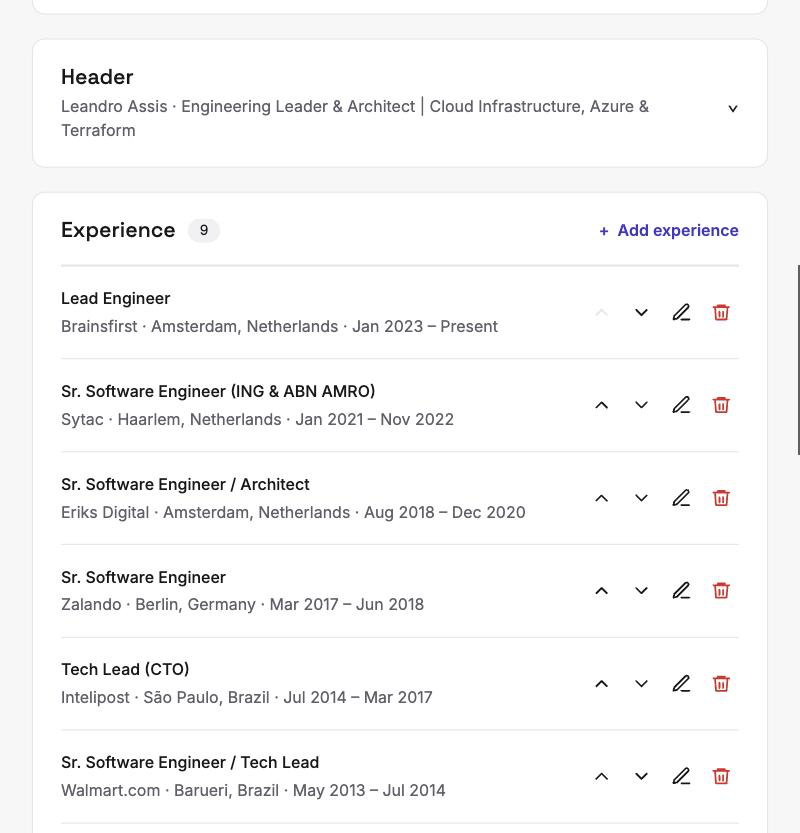
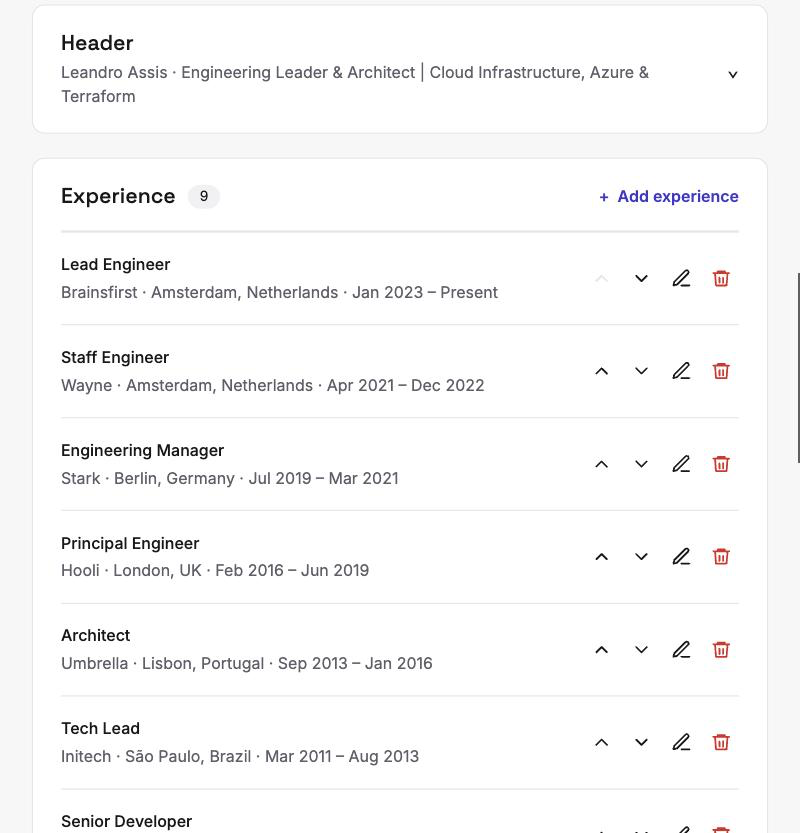
docs(specs): record screens round 2 for career-library

diff --git a/.specs/features/career-library/screens.md b/.specs/features/career-library/screens.md
@@ -1,16 +1,16 @@
 # Career library screens
 
 **Verifier**: independent sub-agent (author != verifier)
-**Round**: 1
+**Round**: 2
 
 Pictures taken by this verifier: app on port 3077 (3001 was occupied) against a fresh Neon Local branch with the walked sample data, browser window set to each capture's pixel size / 2 (764x859, 788x699, 770x818, 752x783). The browser pane returns 800 px wide screenshots (not 2x); no resizing was applied. Notes on `same` rows that apply to every picture: indigo accent and Space Grotesk headings versus green and Inter, flat page background versus the captures' white bordered column (existing admin shell). Not in the Differences table, so notes only (shade and type).
 
 | Screen | Compared with | Verdict | Finding |
 | --- | --- | --- | --- |
 | `captures/education-certifications-courses.running.png` | `captures/education-certifications-courses.png` | matches | 0 rows differ |
-| `captures/skills-publications-honours.running.png` | `captures/skills-publications-honours.png` | diverges | 1 row differs |
-| `captures/project-form.running.png` | `captures/project-form.png` | diverges | 2 rows differ |
-| `captures/header-experience.running.png` | `captures/header-experience.png` | diverges | 1 row differs |
+| `captures/skills-publications-honours.running.png` | `captures/skills-publications-honours.png` | matches | 0 rows differ (round 2) |
+| `captures/project-form.running.png` | `captures/project-form.png` | matches | 0 rows differ (round 2) |
+| `captures/header-experience.running.png` | `captures/header-experience.png` | matches | 0 rows differ (round 2) |
 
 ### `captures/education-certifications-courses.running.png`
 
@@ -33,7 +33,7 @@ Pictures taken by this verifier: app on port 3077 (3001 was occupied) against a 
 | Rows `Infrastructure`, `Backend`, `Databases`, `Caching`, title only, no meta line | same | |
 | Arrows: up disabled on Infrastructure, down disabled on Caching, others enabled; pencil and red trash on each | same | |
 | Publications card directly after Skills: title, no badge, `+ Add publication`, rule, `Nothing here yet.` | same | a Languages card (`Nothing here yet.`, `+ Add language`) sits between Skills and Publications by the confirmed section order (Assumptions, Section order, y); Publications is cut off at the bottom edge |
-| Honours card: title, no badge, `+ Add honour`, rule, `Nothing here yet.` | differs | not in the picture: pushed below the window by the Languages card (Honours is 2 cards down; the capture draws it in this window) |
+| Honours card: title, no badge, `+ Add honour`, rule, `Nothing here yet.` | same | round 2: below the window, as the confirmed difference (section order) lists |
 
 ### `captures/project-form.running.png`
 
@@ -45,16 +45,16 @@ Pictures taken by this verifier: app on port 3077 (3001 was occupied) against a 
 | `Client or organisation` label and input | same | |
 | `Start year` input and `Start month` select (placeholder `Month`) on one row, half width each | same | select caret is a chevron, capture a solid triangle (note) |
 | `End year` input and `End month` select (placeholder `Month`) on one row | same | |
-| `Ongoing` checkbox drawn as a circle, grey label | differs | square checkbox, dark label |
+| `Ongoing` checkbox drawn as a circle, grey label | same | round 2: round box with muted label |
 | `Details` label and tall textarea with resize handle | same | |
 | `Tech stack` input under Details | same | not in capture; approved row (AD-011) |
-| `Cancel` text button and green filled `Save` button, right-aligned under the form | differs | not in the picture: the form is taller by the approved Tech stack row and the buttons start at y~830 (verified in the page), below the 818 px window |
+| `Cancel` text button and green filled `Save` button, right-aligned under the form | same | round 2: below the window (buttons start at y~817), as the confirmed difference (Tech stack) lists |
 
 ### `captures/header-experience.running.png`
 
 | Element | Result | Picture draws |
 | --- | --- | --- |
-| Toolbar fragment with a `Copy` button cut at the top right edge | differs | no such button: the picture's top edge shows only the bottom edge of a card (the product toolbar has Print and Download .md, far above the Header card) |
+| Toolbar fragment with a `Copy` button cut at the top right edge | same | round 2: no Copy button, as the confirmed difference (toolbar) lists |
 | Header card: title `Header`, subtitle `Leandro Assis · Engineering Leader & Architect \| Cloud Infrastructure, Azure & Terraform`, chevron down at right, collapsed | same | subtitle wraps to two lines (Space Grotesk/wider type; text is the same) (note) |
 | Experience card: title, badge `9`, `+ Add experience`, rule | same | |
 | Row `Lead Engineer` over `Brainsfirst · Amsterdam, Netherlands · Jan 2023 – Present`; up disabled, down, pencil, trash | same | |
